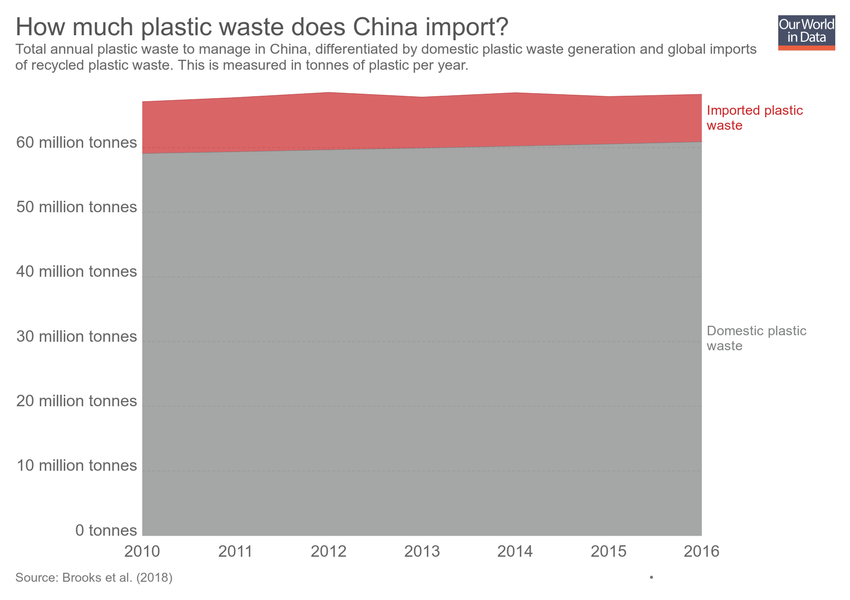
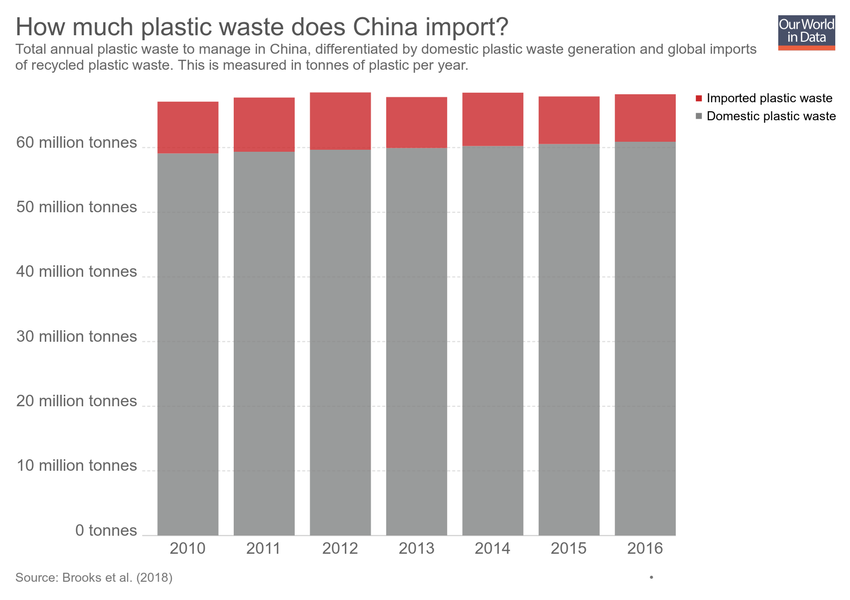
Updating chart chinese-plastic-imports

diff --git a/grapher/chinese-plastic-imports.html b/grapher/chinese-plastic-imports.html
@@ -1,4 +1,4 @@
-<!doctype html><html><head><meta name="viewport" content="width=device-width, initial-scale=1" /><title>How much plastic waste does China import? - Our World in Data</title><meta name="description" content="Total annual plastic waste to manage in China, differentiated by domestic plastic waste generation and global imports of recycled plastic waste. This is measured in tonnes of plastic per year." /><link rel="canonical" href="https://ourworldindata.org/grapher/chinese-plastic-imports" /><meta property="fb:app_id" content="1149943818390250" /><meta property="og:url" content="https://ourworldindata.org/grapher/chinese-plastic-imports" /><meta property="og:title" content="How much plastic waste does China import?" /><meta property="og:description" content="Total annual plastic waste to manage in China, differentiated by domestic plastic waste generation and global imports of recycled plastic waste. This is measured in tonnes of plastic per year." /><meta property="og:image" content="https://ourworldindata.org/grapher/exports/chinese-plastic-imports.png?v=1" /><meta property="og:image:width" content="850" /><meta property="og:image:height" content="600" /><meta property="og:site_name" content="Our World in Data" /><meta name="twitter:card" content="summary_large_image" /><meta name="twitter:site" content="@OurWorldInData" /><meta name="twitter:creator" content="@OurWorldInData" /><meta name="twitter:title" content="How much plastic waste does China import?" /><meta name="twitter:description" content="Total annual plastic waste to manage in China, differentiated by domestic plastic waste generation and global imports of recycled plastic waste. This is measured in tonnes of plastic per year." /><meta name="twitter:image" content="https://ourworldindata.org/grapher/exports/chinese-plastic-imports.png?v=1" /><style>
+<!doctype html><html><head><meta name="viewport" content="width=device-width, initial-scale=1" /><title>How much plastic waste does China import? - Our World in Data</title><meta name="description" content="Total annual plastic waste to manage in China, differentiated by domestic plastic waste generation and global imports of recycled plastic waste. This is measured in tonnes of plastic per year." /><link rel="canonical" href="https://ourworldindata.org/grapher/chinese-plastic-imports" /><meta property="fb:app_id" content="1149943818390250" /><meta property="og:url" content="https://ourworldindata.org/grapher/chinese-plastic-imports" /><meta property="og:title" content="How much plastic waste does China import?" /><meta property="og:description" content="Total annual plastic waste to manage in China, differentiated by domestic plastic waste generation and global imports of recycled plastic waste. This is measured in tonnes of plastic per year." /><meta property="og:image" content="https://ourworldindata.org/grapher/exports/chinese-plastic-imports.png?v=2" /><meta property="og:image:width" content="850" /><meta property="og:image:height" content="600" /><meta property="og:site_name" content="Our World in Data" /><meta name="twitter:card" content="summary_large_image" /><meta name="twitter:site" content="@OurWorldInData" /><meta name="twitter:creator" content="@OurWorldInData" /><meta name="twitter:title" content="How much plastic waste does China import?" /><meta name="twitter:description" content="Total annual plastic waste to manage in China, differentiated by domestic plastic waste generation and global imports of recycled plastic waste. This is measured in tonnes of plastic per year." /><meta name="twitter:image" content="https://ourworldindata.org/grapher/exports/chinese-plastic-imports.png?v=2" /><style>
         html, body {
             height: 100%;
             margin: 0;
@@ -20,8 +20,8 @@
         }
     </style><noscript><style>
                     figure { display: none !important; }
-                </style></noscript><link rel="stylesheet" href="https://ourworldindata.org/grapher/assets/commons.bundle.e61261d2881056c44b1d.css" /><link rel="preload" href="/grapher/data/variables/97726+97725.json?v=1" as="fetch" crossorigin /></head><body class="singleChart"><figure data-grapher-src="/grapher/chinese-plastic-imports"></figure><noscript id="fallback"><img src="/grapher/exports/chinese-plastic-imports.svg" /><p>Interactive visualization requires JavaScript</p></noscript><script src="https://cdn.polyfill.io/v2/polyfill.min.js?features=es6,fetch"></script><script src="https://ourworldindata.org/grapher/assets/commons.bundle.e61261d2881056c44b1d.js"></script><script src="https://ourworldindata.org/grapher/assets/charts.bundle.e61261d2881056c44b1d.js"></script><script>
-        var jsonConfig = {"map":{"projection":"World","colorSchemeLabels":[],"colorSchemeValues":[],"customNumericColors":[],"customCategoryColors":{},"customCategoryLabels":{},"customHiddenCategories":{}},"tab":"chart","slug":"chinese-plastic-imports","type":"StackedArea","title":"How much plastic waste does China import?","xAxis":{"scaleType":"linear"},"yAxis":{"min":0,"scaleType":"linear"},"version":1,"subtitle":"Total annual plastic waste to manage in China, differentiated by domestic plastic waste generation and global imports of recycled plastic waste. This is measured in tonnes of plastic per year.","hasMapTab":false,"stackMode":"absolute","dimensions":[{"display":{"name":"Imported plastic waste","shortUnit":"tonnes"},"property":"y","variableId":97726},{"display":{"name":"Domestic plastic waste","shortUnit":"tonnes"},"property":"y","variableId":97725}],"sourceDesc":"Brooks et al. (2018)","hasChartTab":true,"isPublished":true,"selectedData":[{"color":"#ca2628","index":0,"entityId":171},{"color":"#818282","index":1,"entityId":171}],"addCountryMode":"change-country","hideTitleAnnotation":true,"id":2911};
+                </style></noscript><link rel="stylesheet" href="https://ourworldindata.org/grapher/assets/commons.bundle.e61261d2881056c44b1d.css" /><link rel="preload" href="/grapher/data/variables/97726+97725.json?v=2" as="fetch" crossorigin /></head><body class="singleChart"><figure data-grapher-src="/grapher/chinese-plastic-imports"></figure><noscript id="fallback"><img src="/grapher/exports/chinese-plastic-imports.svg" /><p>Interactive visualization requires JavaScript</p></noscript><script src="https://cdn.polyfill.io/v2/polyfill.min.js?features=es6,fetch"></script><script src="https://ourworldindata.org/grapher/assets/commons.bundle.e61261d2881056c44b1d.js"></script><script src="https://ourworldindata.org/grapher/assets/charts.bundle.e61261d2881056c44b1d.js"></script><script>
+        var jsonConfig = {"id":2911,"map":{"projection":"World","colorSchemeLabels":[],"colorSchemeValues":[],"customNumericColors":[],"customCategoryColors":{},"customCategoryLabels":{},"customHiddenCategories":{}},"tab":"chart","slug":"chinese-plastic-imports","type":"StackedBar","title":"How much plastic waste does China import?","xAxis":{"scaleType":"linear"},"yAxis":{"min":0,"scaleType":"linear"},"version":2,"subtitle":"Total annual plastic waste to manage in China, differentiated by domestic plastic waste generation and global imports of recycled plastic waste. This is measured in tonnes of plastic per year.","hasMapTab":false,"stackMode":"absolute","dimensions":[{"display":{"name":"Imported plastic waste","shortUnit":"tonnes"},"property":"y","variableId":97726},{"display":{"name":"Domestic plastic waste","shortUnit":"tonnes"},"property":"y","variableId":97725}],"sourceDesc":"Brooks et al. (2018)","hasChartTab":true,"isPublished":true,"selectedData":[{"color":"#ca2628","index":0,"entityId":171},{"color":"#818282","index":1,"entityId":171}],"addCountryMode":"change-country","hideTitleAnnotation":true};
         var figure = document.getElementsByTagName("figure")[0];
         try {
             window.App = {};
